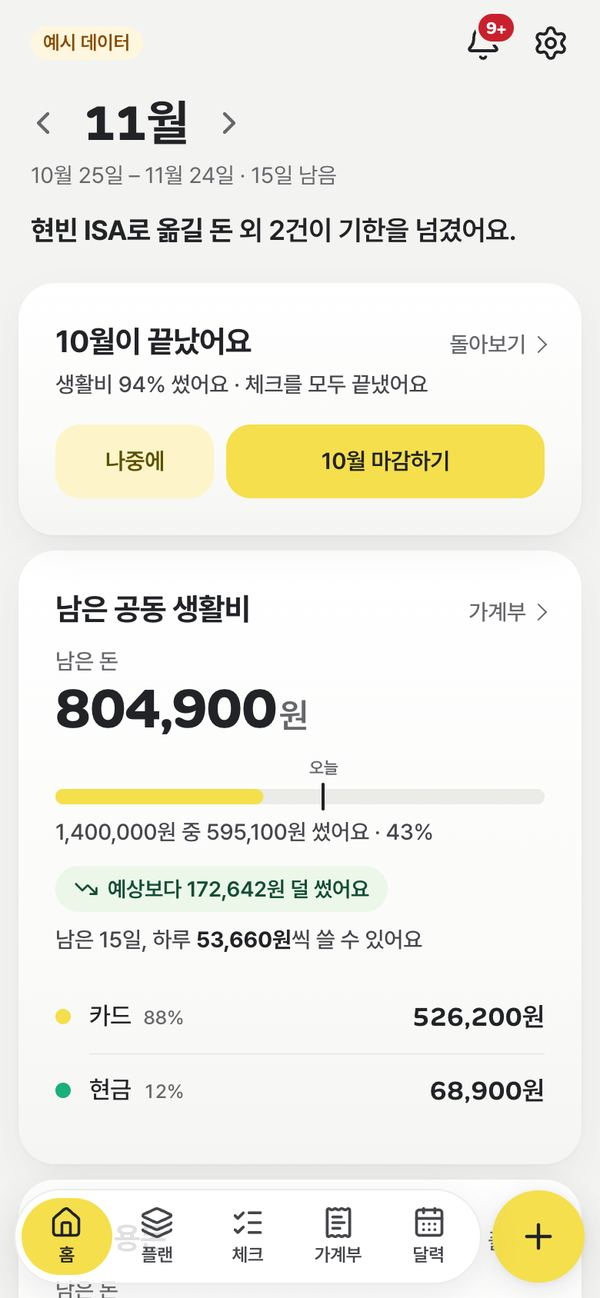
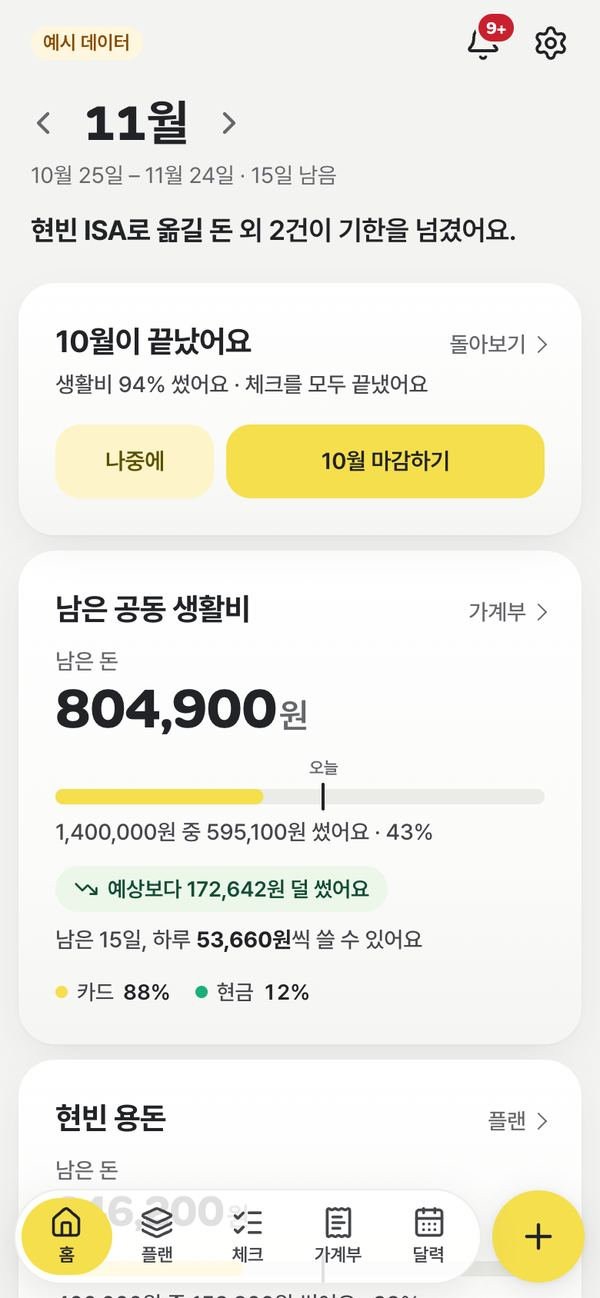
결제수단은 % 한 줄로 — 금액 목록 대신 "● 카드 88%  ● 현금 12%"
예산 막대 바로 아래 결제수단이 막대·목록으로 또 그려져 겹쳐 보였다. 금액은 위 설명 줄에 이미 있어서
점·이름·% 만 한 줄로 쓴다. 용돈 작은 카드의 "카드 …원 · 현금 …원" 줄도 같은 모양으로 맞췄다.

diff --git a/apps/web/src/components/BudgetCard.tsx b/apps/web/src/components/BudgetCard.tsx
@@ -105,17 +105,7 @@ export function BudgetCard({
           <PacePill status={status} />
           {daily}
         </div>
-        {compact ? (
-          KINDS.some((k) => status.byKind[k] > 0) && (
-            <p className="kinds-line">
-              {KINDS.filter((k) => status.byKind[k] > 0)
-                .map((k) => `${PAY_KIND_LABEL[k]} ${num(status.byKind[k])}원`)
-                .join(" · ")}
-            </p>
-          )
-        ) : (
-          <Kinds byKind={status.byKind} />
-        )}
+        <Kinds byKind={status.byKind} />
       </div>
     </section>
   );
@@ -132,27 +122,23 @@ function shares(values: number[]): number[] {
 }
 
 /**
- * 결제수단 나눔 — 목록(점·이름·%·금액)만. 바로 위 예산 막대와 같은 모양의 막대를 또 두면 뜻이 섞여서, 숫자로 충분한 이곳은 막대를 그리지 않는다.
- * 0원인 수단은 빼고, 순서와 색은 카드·현금·계좌이체로 고정한다(금액 순으로 다시 칠하지 않는다).
+ * 결제수단 나눔 — 한 줄에 점 · 이름 · % 만 ("● 카드 88%  ● 현금 12%"). 바로 위 예산 막대와 겹쳐 보이지 않게 막대는 그리지 않고,
+ * 금액은 위 "…중 …썼어요"에 이미 있어서 비중만 말한다. 0원인 수단은 빼고, 순서와 점 색은 카드·현금·계좌이체로 고정한다.
  */
 function Kinds({ byKind }: { byKind: LivingStatus["byKind"] }) {
   const parts = KINDS.filter((k) => byKind[k] > 0);
   if (parts.length === 0) return null;
   const pct = shares(parts.map((k) => byKind[k]));
   return (
-    <div className="kinds">
-      <ul className="buckets" aria-label="결제수단별">
-        {parts.map((k, i) => (
-          <li key={k} className={`k-${k}`}>
-            <i aria-hidden="true" />
-            <span className="n">
-              {PAY_KIND_LABEL[k]} <span className="v">{pct[i] > 0 ? `${pct[i]}%` : "1% 미만"}</span>
-            </span>
-            <b>{num(byKind[k])}원</b>
-          </li>
-        ))}
-      </ul>
-    </div>
+    <p className="kinds">
+      <span className="sr-only">결제수단별: </span>
+      {parts.map((k, i) => (
+        <span key={k} className={`k-${k}`}>
+          <i aria-hidden="true" />
+          {PAY_KIND_LABEL[k]} <b>{pct[i] > 0 ? `${pct[i]}%` : "1% 미만"}</b>
+        </span>
+      ))}
+    </p>
   );
 }
 

diff --git a/apps/web/src/app/cards.css b/apps/web/src/app/cards.css
@@ -38,10 +38,12 @@
 .pace-pill.warn { background: var(--pill-warning-bg); color: var(--pill-warning-ink); }
 .pace-pill.bad { background: var(--pill-negative-bg); color: var(--pill-negative-ink); }
 
-/* 결제수단 나눔: 목록만 (점·이름·%·금액) */
-.budget .kinds { width: 100%; max-width: 440px; margin-top: 16px; }
-.kinds .buckets { margin-top: 0; }
-.kinds .n .v { margin-left: 4px; }
+/* 결제수단 나눔: 한 줄에 점 · 이름 · % 만 (막대·금액 없음) */
+.budget .kinds { display: flex; flex-wrap: wrap; gap: 4px 16px; margin-top: 14px; color: var(--muted); font: 500 14px/20px var(--font-text); }
+.budget .kinds > span { display: inline-flex; align-items: center; gap: 6px; }
+.budget .kinds i { width: 8px; height: 8px; border-radius: var(--radius-chip); background: var(--k); }
+.budget .kinds b { color: var(--text); font-weight: 600; font-variant-numeric: tabular-nums; }
+.budget.compact .kinds { margin-top: 10px; font-size: 13px; }
 .kinds .k-card { --k: var(--kind-card); }
 .kinds .k-cash { --k: var(--kind-cash); }
 .kinds .k-transfer { --k: var(--kind-transfer); }
@@ -50,7 +52,6 @@
 .budget-body { padding: 10px var(--pad) var(--pad); }
 .budget.compact .fig { font-size: 28px; line-height: 34px; }
 .budget-foot { display: flex; flex-wrap: wrap; align-items: center; justify-content: space-between; gap: 8px 12px; margin-top: 12px; }
-.budget .kinds-line { margin-top: 10px; color: var(--faint); font: 500 12.5px/16px var(--font-text); }
 .budget-foot:empty { display: none; }
 
 /* 체크 화면 머리: 결론 한 줄 + 같은 진행 막대 */

diff --git a/CHANGELOG.md b/CHANGELOG.md
@@ -7,7 +7,7 @@
 
 ## 다음 버전
 
-- 숫자가 먼저 보이게 홈을 다시 짰어요. 남은 공동 생활비와 용돈은 반원·링 게이지 대신 **남은 돈을 가장 크게**, 그 아래 예산 대비 가로 막대(검은 눈금이 오늘까지 써도 되는 선), 그다음 상태와 설명을 둬요. 할 일 진행도 "9 / 20 완료"를 먼저 쓰고 같은 막대로 보여 줘요(체크 화면 머리도). 홈 위쪽의 노란 그라데이션 띠와 생활비 카드의 하늘색 바탕, 결제수단 비율 막대(목록에 %·금액이 있어서)는 뺐어요.
+- 숫자가 먼저 보이게 홈을 다시 짰어요. 남은 공동 생활비와 용돈은 반원·링 게이지 대신 **남은 돈을 가장 크게**, 그 아래 예산 대비 가로 막대(검은 눈금이 오늘까지 써도 되는 선), 그다음 상태와 설명을 둬요. 할 일 진행도 "9 / 20 완료"를 먼저 쓰고 같은 막대로 보여 줘요(체크 화면 머리도). 홈 위쪽의 노란 그라데이션 띠와 생활비 카드의 하늘색 바탕, 결제수단은 막대 없이 "● 카드 88%  ● 현금 12%" 한 줄로 비중만 보여 줘요(용돈 카드도 같은 모양).
 - "11월 30일에 일정 추가" · "일정 추가" · "분류 추가"처럼 글에 이미 "추가"가 있는 버튼에서 + 그림을 뺐어요.
 - 가계부 "이번 달 기록" 타일 아이콘(가장 많이 쓴 날 · 무지출 연속 · 기록 수 · 저축)도 같은 채운 그림으로 바꿨어요. 새로 설치하면 기본 분류에 **카페·간식**(컵 아이콘)이 있어요 — 이미 쓰는 가계부는 설정 › 생활비 분류와 예산에서 "카페"로 분류를 더하면 컵 아이콘이 붙고, 커피·스타벅스 같은 메모가 그 분류로 들어가요.
 - 쇼핑(쇼핑백) · 여행(비행기) · 이체(주고받는 화살표) 아이콘도 더했어요. 분류 이름에 "쇼핑·의류", "여행·숙박", "이체·송금"이 들어가면 그 그림이 붙고, 무신사·옷 / 항공·호텔·숙소 / 송금 같은 메모가 그 분류로 들어가요(여행 분류가 없으면 숙소·호텔은 전처럼 문화·여가로).

diff --git a/docs/design-system/components/BudgetCard/README.md b/docs/design-system/components/BudgetCard/README.md
@@ -9,7 +9,7 @@
 4. **막대**(`Meter`): 높이 10px, 트랙 `well`, 채움 `accent`(넘치면 `negative`). 오늘까지 써도 되는 자리에 진한 눈금(2px `text`, 위아래 4px). 큰 카드만 눈금 위에 "오늘"(`caption`, `faint`)
 5. 설명: "1,400,000원 중 595,100원 썼어요 · 43%"(`muted`) — %는 여기에만
 6. 속도 알약과 하루 금액(한 줄, 좁으면 줄바꿈)
-7. 결제수단: 큰 카드는 목록(점 · 이름 + `faint` % · 금액, 줄 사이 `rule`), 작은 카드는 `meta`·`faint` 한 줄("카드 120,000원 · 현금 34,300원"). 0원인 수단은 빼고 순서와 점 색은 카드(`kind-card`)·현금(`kind-cash`)·계좌이체(`kind-transfer`)로 고정합니다. 바로 위 예산 막대와 헷갈리지 않게 **비율 막대는 그리지 않습니다** — 목록에 %와 금액이 이미 있습니다.
+7. 결제수단: 한 줄에 **점 · 이름 · %만**("● 카드 88%  ● 현금 12%", 글자 `muted`, % 는 `text` 600). 큰 카드·작은 카드 같은 모양(작은 카드는 13px). 바로 위 예산 막대와 겹쳐 보이지 않게 **비율 막대는 그리지 않고**, 금액은 위 설명 줄에 이미 있어서 다시 쓰지 않습니다. 0원인 수단은 빼고 순서와 점 색은 카드(`kind-card`)·현금(`kind-cash`)·계좌이체(`kind-transfer`)로 고정합니다. %는 합이 100이 되게 반올림하고 0이 되면 "1% 미만"입니다.
 
 ## 속도 알약과 하루 금액
 - 예상보다 덜 썼으면 `pill-positive-*`에 `TrendingDown` 아이콘을 붙여 "예상보다 106,774원 덜 썼어요"라고 씁니다.

diff --git a/docs/design-system/README.md b/docs/design-system/README.md
@@ -123,7 +123,7 @@
 - **숫자가 가장 큽니다:** 카드마다 답 숫자 하나가 가장 크고(`display` 34px, 작은 카드 26–28px), 막대가 그다음, 상태 알약과 설명 줄이 그 아래입니다. %는 설명 줄에 씁니다.
 - **작은 자리는 숫자와 가로 막대:** 반원·링·도넛 같은 원형 그림은 쓰지 않습니다. 자리를 많이 쓰면서 숫자를 밀어냅니다.
 - **같은 뜻은 같은 모양:** 예산 대비 쓴 돈은 어디서나 같은 `Meter`(채움 `accent`, 넘치면 `negative`, 오늘까지 써도 되는 선은 진한 눈금)입니다. 진행(할 일·옮길 돈)도 같은 막대입니다.
-- **숫자로 충분하면 그리지 않습니다:** 목록에 이미 %와 금액이 있으면 그 위에 비율 막대를 또 두지 않습니다(예: 결제수단 나눔).
+- **숫자로 충분하면 그리지 않습니다:** %만으로 비중이 읽히면 비율 막대를 그리지 않습니다(예: 결제수단 나눔은 "● 카드 88%  ● 현금 12%" 한 줄).
 
 | 숫자의 뜻 | 우리 화면 | 모양 |
 |---|---|---|
